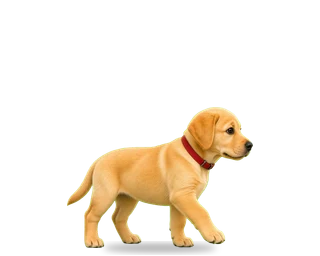
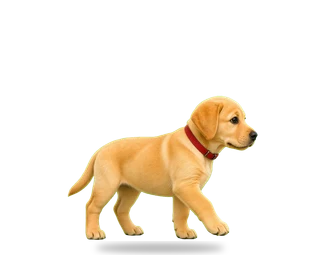
Repair Rex and Bailey walks (stabilise, bob, ping-pong); side-view walk and run for Rick MTV; per-animation flip
Claude-Session: https://claude.ai/code/session_01SPb2nHRXEdcJGy2z2XqmH9

Changed region(s): [[0.1875, 0.375, 0.8125, 0.9688]]

diff --git a/src/main/bundle.ts b/src/main/bundle.ts
@@ -121,6 +121,7 @@ export function validatePack(manifest: unknown, get: FileGetter): Report {
       if (def.fps === undefined) warn(`animation "${name}" has no "fps"; 4 will be used`);
       else err(`animation "${name}": "fps" must be a number between 0 and 60`);
     }
+    if (def.flip !== undefined && typeof def.flip !== 'boolean') err(`animation "${name}": "flip" must be true or false`);
     if (def.loop !== undefined && typeof def.loop !== 'boolean') err(`animation "${name}": "loop" must be true or false`);
     if (!Array.isArray(def.frames) || def.frames.length === 0) {
       err(`animation "${name}": "frames" must be a non-empty list of file names`);

diff --git a/src/renderer/renderer.ts b/src/renderer/renderer.ts
@@ -192,7 +192,7 @@ function render(snapshot: WorldSnapshot): void {
     el.img.width = w;
     el.img.height = h;
     const artFacing = m.facing ?? 'right';
-    el.img.classList.toggle('flip', m.flip !== false && b.facing !== artFacing);
+    el.img.classList.toggle('flip', (def.flip ?? m.flip) !== false && b.facing !== artFacing);
     el.img.classList.toggle('pixel', !!m.pixelArt);
     const lx = b.x - display.bounds.x - w / 2;
     const top = m.edge === 'top';

diff --git a/src/shared/types.ts b/src/shared/types.ts
@@ -45,6 +45,8 @@ export type AnimationName =
 export interface AnimationDef {
   frames: string[];
   fps: number;
+  /** Overrides the pack's `flip` for this animation (e.g. a side-view walk in a pack that otherwise never mirrors). */
+  flip?: boolean;
   /** When false the animation stops on its last frame. Default true. */
   loop?: boolean;
 }

diff --git a/docs/PHOTO-BUDDY.md b/docs/PHOTO-BUDDY.md
@@ -192,6 +192,26 @@ camera with a transparent background (PNG with alpha), 256 to 512 px square, and
 **Already have transparent PNGs** (for example from a background-removal tool): use
 `--key none`, or leave `auto`, which detects the transparency.
 
+### Walk cycles that jiggle
+
+Image generators draw every frame separately, so the animal comes out at a slightly different size
+and spot each time, and the legs barely change. Played as an animation that looks like jiggling, not
+walking. Three options fix most of it:
+
+```bash
+node scripts/photo-pack.mjs raw/rex --name Rex --stabilize idle,walk,watch --ref idle-2 --bob walk=4
+```
+
+- `--stabilize idle,walk,...` lays each frame's silhouette over a reference frame, so the animal has the same size and place in every frame and only the legs and head move. Use it for poses of the same kind (standing and walking), not for lying or jumping poses.
+- `--bob walk=4` adds a small body bounce between footfalls (px at the final frame size).
+- `--pingpong walk` plays a short walk forwards and backwards (1 2 3 2) instead of jumping from the last frame to the first. Use it when you have only 2 to 4 walk frames that are not a real loop.
+
+The tool can only use the poses it is given. For a convincing walk ask the generator for **8 frames of
+one full stride in side view, with clearly different leg positions**: contact (front foot down, legs
+far apart), down, passing (legs together, one leg lifted), up, and the same again for the other leg.
+Say "exaggerated leg positions", "treadmill walk in place" and "same camera, same size in every frame".
+Video-to-frames (see above) usually gives the best cycles.
+
 ### If it looks wrong
 
 | Symptom | Fix |

diff --git a/docs/CREATE-A-BUDDY.md b/docs/CREATE-A-BUDDY.md
@@ -132,7 +132,7 @@ it with `node bin/buddy.js import ./my-buddy`.
 | `speed` | Walking speed relative to other buddies, 0.1 to 3 (default 1; the sloth uses 0.3). |
 | `petLines` | Things the buddy says when clicked. |
 | `pixelArt` | `true` to scale PNG frames without smoothing. |
-| `animations` | `{ name: { frames: [...], fps, loop? } }`. |
+| `animations` | `{ name: { frames: [...], fps, loop?, flip? } }`. `flip` overrides the pack's `flip` for that animation (a side-view walk in a pack that otherwise never mirrors). |
 | `doubleClick` | `{ animation, seconds, say, effect }`, the trick played on double-click. |
 
 Animations used by the app: `idle` and `walk` (required), `sit`, `sleep`,
